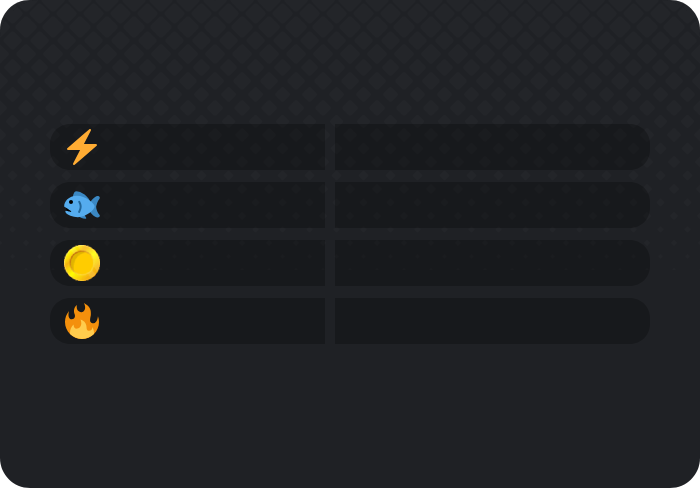
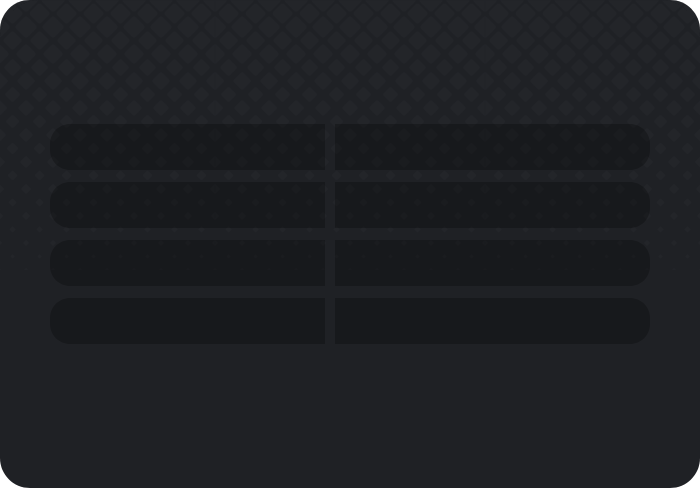
Fishery currencies completed

diff --git a/src/main/java/modules/graphics/FisheryGraphics.java b/src/main/java/modules/graphics/FisheryGraphics.java
@@ -4,9 +4,11 @@ import commands.Category;
 import core.AttributedStringGenerator;
 import core.LocalFile;
 import core.TextManager;
+import core.utils.EmojiUtil;
 import core.utils.StringUtil;
 import modules.fishery.FisheryPowerUp;
 import mysql.hibernate.entity.guild.GuildEntity;
+import net.dv8tion.jda.api.entities.emoji.Emoji;
 
 import javax.imageio.ImageIO;
 import java.awt.*;
@@ -26,8 +28,8 @@ public class FisheryGraphics {
     private static final int TEXT_FONT_SMALL = 25;
     private static final int TEXT_FONT_EXTRA_SMALL = 20;
 
-    public static InputStream createAccountCard(GuildEntity guildEntity, long[] values, long[] valueChanges,
-                                                long rank, long totalRank, long rankChange,
+    public static InputStream createAccountCard(GuildEntity guildEntity, Emoji[] emojis, long[] values,
+                                                long[] valueChanges, long rank, long totalRank, long rankChange,
                                                 List<FisheryPowerUp> activePowerUps, String subtext
     ) throws IOException {
         BufferedImage backgroundImage = ImageIO.read(new LocalFile(LocalFile.Directory.RESOURCES, subtext != null ? "fishery_account_large.png" : "fishery_account.png"));
@@ -35,7 +37,7 @@ public class FisheryGraphics {
         Graphics2D g2d = GraphicsUtil.createGraphics(drawImage);
 
         g2d.drawImage(backgroundImage, 0, 0, backgroundImage.getWidth(), backgroundImage.getHeight(), null);
-        drawAccountTexts(g2d, guildEntity, values, valueChanges, rank, totalRank, rankChange, subtext);
+        drawAccountTexts(g2d, guildEntity, emojis, values, valueChanges, rank, totalRank, rankChange, subtext);
 
         for (int i = 0; i < activePowerUps.size(); i++) {
             drawPowerUp(g2d, activePowerUps.get(i), i);
@@ -48,7 +50,7 @@ public class FisheryGraphics {
         }
     }
 
-    private static void drawAccountTexts(Graphics2D g2d, GuildEntity guildEntity, long[] values, long[] valueChanges,
+    private static void drawAccountTexts(Graphics2D g2d, GuildEntity guildEntity, Emoji[] emojis, long[] values, long[] valueChanges,
                                          long rank, long totalRank, long rankChange, String subtext
     ) {
         FontRenderContext frc = new FontRenderContext(null, true, true);
@@ -63,7 +65,7 @@ public class FisheryGraphics {
         String[] labels = TextManager.getString(guildEntity, guildEntity.getLocale(), Category.FISHERY.getId(), "fisherycat_valuelabels", -1).split("\n");
         for (int i = 0; i < labels.length; i++) {
             String label = labels[i];
-            drawAccountSlot(g2d, frc, fontSmall, label, values[i], valueChanges[i], i, valueChanges[i] >= 0 ? Color.GREEN : Color.RED);
+            drawAccountSlot(g2d, frc, fontSmall, label, emojis[i], values[i], valueChanges[i], i, valueChanges[i] >= 0 ? Color.GREEN : Color.RED);
         }
 
         String rankChangeString = rankChange != 0 ? (" (" + (rankChange >= 0 ? "+" : "") + StringUtil.numToString(rankChange) + ")") : null;
@@ -77,9 +79,11 @@ public class FisheryGraphics {
         }
     }
 
-    private static void drawAccountSlot(Graphics2D g2d, FontRenderContext frc, AttributedStringGenerator fontSmall, String label,
-                                        long value, long valueChange, int i, Color valueChangeColor
+    private static void drawAccountSlot(Graphics2D g2d, FontRenderContext frc, AttributedStringGenerator fontSmall,
+                                        String label, Emoji emoji, long value, long valueChange, int i,
+                                        Color valueChangeColor
     ) {
+        drawEmoji(g2d, emoji, 66, 131 + 58 * i, 32, 32);
         drawStringScaledToBounds(g2d, frc, fontSmall, label, 110, 147 + 58 * i + getTextHeight(frc, fontSmall) / 2, 200, false);
 
         String valueString = StringUtil.numToString(value);
@@ -127,17 +131,17 @@ public class FisheryGraphics {
     }
 
     private static void drawPowerUp(Graphics2D g2d, FisheryPowerUp powerUp, int i) throws IOException {
-        BufferedImage image = ImageIO.read(new LocalFile(LocalFile.Directory.RESOURCES, String.format("powerup/%s.png", powerUp.name().toLowerCase())));
-        g2d.drawImage(image, 650 - 64 - (64 + 8) * i, 374,null);
+        BufferedImage image = ImageIO.read(new LocalFile(LocalFile.Directory.RESOURCES, java.lang.String.format("powerup/%s.png", powerUp.name().toLowerCase())));
+        g2d.drawImage(image, 650 - 64 - (64 + 8) * i, 374, null);
     }
 
-    public static InputStream createGearCard(Locale locale, long[] levels, long[] values, String roleName, long coinGiftLimit, boolean powerUpBonus) throws IOException {
+    public static InputStream createGearCard(Locale locale, long[] levels, long[] values, String roleName, long coinGiftLimit, boolean powerUpBonus, Emoji fishEmoji, Emoji coinsEmoji) throws IOException {
         BufferedImage backgroundImage = ImageIO.read(new LocalFile(LocalFile.Directory.RESOURCES, levels[7] > 0 ? "fishery_gear_card_prestige.png" : "fishery_gear_card.png"));
         BufferedImage drawImage = new BufferedImage(backgroundImage.getWidth(), backgroundImage.getHeight(), BufferedImage.TYPE_INT_ARGB);
         Graphics2D g2d = GraphicsUtil.createGraphics(drawImage);
 
         g2d.drawImage(backgroundImage, 0, 0, backgroundImage.getWidth(), backgroundImage.getHeight(), null);
-        drawGearTexts(g2d, locale, levels, values, roleName, coinGiftLimit, powerUpBonus);
+        drawGearTexts(g2d, locale, levels, values, roleName, coinGiftLimit, powerUpBonus, fishEmoji, coinsEmoji);
 
         try (ByteArrayOutputStream os = new ByteArrayOutputStream()) {
             ImageIO.write(drawImage, "png", os);
@@ -146,7 +150,7 @@ public class FisheryGraphics {
         }
     }
 
-    private static void drawGearTexts(Graphics2D g2d, Locale locale, long[] levels, long[] values, String roleName, long coinGiftLimit, boolean powerUpBonus) throws IOException {
+    private static void drawGearTexts(Graphics2D g2d, Locale locale, long[] levels, long[] values, String roleName, long coinGiftLimit, boolean powerUpBonus, Emoji fishEmoji, Emoji coinsEmoji) {
         FontRenderContext frc = new FontRenderContext(null, true, true);
         g2d.setColor(Color.WHITE);
 
@@ -156,6 +160,7 @@ public class FisheryGraphics {
 
         g2d.drawString(fontLarge.getIterator(TextManager.getString(locale, Category.FISHERY, "fisherycat_fisherygear")), 50, 50 + getTextHeight(frc, fontLarge));
 
+        Emoji[] emojis = new Emoji[] {fishEmoji, fishEmoji, fishEmoji, coinsEmoji, null, coinsEmoji, coinsEmoji, null};
         String[] labels = TextManager.getString(locale, Category.FISHERY, "fisherycat_gearvaluelabels").split("\n");
         for (int i = 0; i < labels.length; i++) {
             if (i == 7 && levels[7] == 0) {
@@ -171,7 +176,7 @@ public class FisheryGraphics {
                 valueString = " ";
             }
 
-            drawGearSlot(g2d, locale, frc, fontSmall, fontExtraSmall, label, i, StringUtil.numToString(levels[i]), valueString);
+            drawGearSlot(g2d, locale, frc, fontSmall, fontExtraSmall, emojis[i], label, i, StringUtil.numToString(levels[i]), valueString);
         }
 
         String coinGiftLabel = TextManager.getString(locale, Category.FISHERY, "fisherycat_gear_giftlimit");
@@ -180,13 +185,12 @@ public class FisheryGraphics {
         g2d.setColor(Color.WHITE);
         int labelWidth = (int) fontExtraSmall.getStringBounds(coinGiftLabel, frc).getWidth();
 
-        BufferedImage coinImage = ImageIO.read(new LocalFile(LocalFile.Directory.RESOURCES,"coin.png"));
-        g2d.drawImage(coinImage, 65 + labelWidth, 521, null);
+        drawEmoji(g2d, coinsEmoji, 65 + labelWidth, 521, 28, 28);
         drawStringScaledToBounds(g2d, frc, fontExtraSmall, coinGiftLimit != 0 ? StringUtil.numToString(coinGiftLimit) : "∞", 98 + labelWidth, 526 + getTextHeight(frc, fontExtraSmall), 716 - (98 + labelWidth), false);
     }
 
     private static void drawGearSlot(Graphics2D g2d, Locale locale, FontRenderContext frc, AttributedStringGenerator fontSmall,
-                                     AttributedStringGenerator fontExtraSmall, String label, int i,
+                                     AttributedStringGenerator fontExtraSmall, Emoji emoji, String label, int i,
                                      String level, String value) {
         int xAdd = (i / 4) * 338;
         int yAdd = (i % 4) * 98;
@@ -206,6 +210,8 @@ public class FisheryGraphics {
             valueWidth += 10 + fontExtraSmall.getStringBounds(TextManager.getString(locale, Category.FISHERY, "fisherycat_gearsubtitle_" + i), frc).getWidth();
         }
         double valueScaleX = Math.min(1.0, (249.0 + (i == 4 ? 33.0 : 0.0)) / valueWidth);
+
+        drawEmoji(g2d, emoji, 96 + xAdd, 175 + yAdd, 28, 28);
 
         double valueNumberWidth = drawStringScaled(g2d, frc, fontExtraSmall, value, 129 + xAdd - (i == 4 ? 33 : 0), 181 + yAdd + getTextHeight(frc, fontExtraSmall), valueScaleX, false);
         if (i != 4 && i != 7) {
@@ -241,6 +247,17 @@ public class FisheryGraphics {
         transform.scale(1.0, 1.0);
         g2d.setTransform(transform);
         return width;
+    }
+
+    private static void drawEmoji(Graphics2D g2d, Emoji emoji, int x, int y, int width, int height) {
+        if (emoji == null) {
+            return;
+        }
+
+        BufferedImage emojiImage = EmojiUtil.toImage(emoji);
+        if (emojiImage != null) {
+            g2d.drawImage(emojiImage, x, y, width, height, null);
+        }
     }
 
 }

diff --git a/src/main/java/core/utils/EmojiUtil.java b/src/main/java/core/utils/EmojiUtil.java
@@ -1,6 +1,8 @@
 package core.utils;
 
 import constants.Emojis;
+import core.LocalFile;
+import core.MainLogger;
 import net.dv8tion.jda.api.Permission;
 import net.dv8tion.jda.api.entities.Message;
 import net.dv8tion.jda.api.entities.MessageReaction;
@@ -9,10 +11,16 @@ import net.dv8tion.jda.api.entities.emoji.CustomEmoji;
 import net.dv8tion.jda.api.entities.emoji.Emoji;
 import net.dv8tion.jda.api.entities.emoji.UnicodeEmoji;
 
+import javax.imageio.ImageIO;
+import java.awt.image.BufferedImage;
+import java.io.IOException;
+import java.net.URL;
 import java.util.Arrays;
 import java.util.Base64;
 import java.util.Objects;
 import java.util.Optional;
+import java.util.concurrent.ExecutionException;
+import java.util.stream.Collectors;
 
 public class EmojiUtil {
 
@@ -57,6 +65,42 @@ public class EmojiUtil {
 
     public static String getEmojiFromOverride(String def, String id) {
         return Objects.requireNonNullElse(getEmojiFromOverrideOrNull(id), def);
+    }
+
+    public static BufferedImage toImage(Emoji emoji) {
+        try {
+            if (emoji instanceof UnicodeEmoji) {
+                String assetId = toTwemojiAssetId(emoji.getFormatted());
+                LocalFile localFile = new LocalFile(LocalFile.Directory.EMOJI_CACHE, assetId + ".png");
+                if (!localFile.exists()) {
+                    BufferedImage bufferedImage = ImageIO.read(new URL("https://twemoji.maxcdn.com/v/latest/72x72/" + assetId + ".png"));
+                    if (bufferedImage != null) {
+                        ImageIO.write(bufferedImage, "png", localFile);
+                    } else {
+                        BufferedImage img = new BufferedImage(32, 32, BufferedImage.TYPE_INT_ARGB);
+                        ImageIO.write(img, "png", localFile);
+                    }
+                }
+                return ImageIO.read(localFile);
+            } else if (emoji instanceof CustomEmoji) {
+                LocalFile localFile = new LocalFile(LocalFile.Directory.EMOJI_CACHE, ((CustomEmoji) emoji).getId() + ".png");
+                if (!localFile.exists()) {
+                    ((CustomEmoji) emoji).getImage().downloadToFile(localFile, 32).get();
+                }
+                return ImageIO.read(localFile);
+            }
+        } catch (IOException | ExecutionException | InterruptedException e) {
+            MainLogger.get().error("Emoji cache error", e);
+            return null;
+        }
+        return null;
+    }
+
+    private static String toTwemojiAssetId(String emoji) {
+        return emoji.codePoints()
+                .mapToObj(Integer::toHexString)
+                .collect(Collectors.joining("-"))
+                .toLowerCase();
     }
 
     private static String getEmojiFromOverrideOrNull(String id) {

diff --git a/src/main/java/modules/fishery/Fishery.java b/src/main/java/modules/fishery/Fishery.java
@@ -181,10 +181,10 @@ public class Fishery {
         }
     }
 
-    public static String generateGearCardUrl(Locale locale, FisheryMemberData fisheryMemberData, boolean powerUpBonus, List<Role> roles, int roleLvl, FisheryEntity fishery) throws IOException {
+    public static String generateGearCardUrl(GuildEntity guildEntity, FisheryMemberData fisheryMemberData, boolean powerUpBonus, List<Role> roles, int roleLvl, FisheryEntity fishery) throws IOException {
         String roleName = !roles.isEmpty() && roleLvl > 0 && roleLvl <= roles.size()
                 ? "@" + roles.get(roleLvl - 1).getName()
-                : TextManager.getString(locale, Category.FISHERY, "fisherycat_gear_norole");
+                : TextManager.getString(guildEntity.getLocale(), Category.FISHERY, "fisherycat_gear_norole");
         long coinGiftLimit = fishery.getCoinGiftLimit() ? fisheryMemberData.getCoinsGiveReceivedMax() : 0;
 
         ArrayList<FisheryMemberGearData> gearList = new ArrayList<>(fisheryMemberData.getGearMap().values());
@@ -197,7 +197,11 @@ public class Fishery {
         }
 
         FeatureLogger.inc(PremiumFeature.FISHERY_ACCOUNT_CARDS, fishery.getGuildId());
-        InputStream inputStream = FisheryGraphics.createGearCard(locale, levels, values, roleName, coinGiftLimit, powerUpBonus);
+
+        FisheryEntity fisheryEntity = guildEntity.getFishery();
+        Emoji fishEmoji = fisheryEntity.getCurrencyEffectivelyReadOnly(FisheryCurrency.FISH).getEmoji();
+        Emoji coinsEmoji = fisheryEntity.getCurrencyEffectivelyReadOnly(FisheryCurrency.COINS).getEmoji();
+        InputStream inputStream = FisheryGraphics.createGearCard(guildEntity.getLocale(), levels, values, roleName, coinGiftLimit, powerUpBonus, fishEmoji, coinsEmoji);
         return InternetUtil.getUrlFromInputStream(inputStream, "png");
     }
 

diff --git a/src/main/java/mysql/redis/fisheryusers/FisheryMemberData.java b/src/main/java/mysql/redis/fisheryusers/FisheryMemberData.java
@@ -23,6 +23,7 @@ import net.dv8tion.jda.api.entities.Member;
 import net.dv8tion.jda.api.entities.Message;
 import net.dv8tion.jda.api.entities.Role;
 import net.dv8tion.jda.api.entities.channel.concrete.VoiceChannel;
+import net.dv8tion.jda.api.entities.emoji.Emoji;
 import org.apache.commons.lang3.StringUtils;
 import redis.clients.jedis.Pipeline;
 import redis.clients.jedis.Response;
@@ -851,8 +852,16 @@ public class FisheryMemberData implements MemberAsset {
                 }
             }
 
+            FisheryEntity fisheryEntity = guildEntity.getFishery();
+            Emoji[] emojis = new Emoji[] {
+                    fisheryEntity.getCurrencyEffectivelyReadOnly(FisheryCurrency.RECENT_EFFICIENCY).getEmoji(),
+                    fisheryEntity.getCurrencyEffectivelyReadOnly(FisheryCurrency.FISH).getEmoji(),
+                    fisheryEntity.getCurrencyEffectivelyReadOnly(FisheryCurrency.COINS).getEmoji(),
+                    Emojis.DAILY_STREAK
+            };
+
             FeatureLogger.inc(PremiumFeature.FISHERY_ACCOUNT_CARDS, getGuildId());
-            InputStream inputStream = FisheryGraphics.createAccountCard(guildEntity, values, valueChanges,
+            InputStream inputStream = FisheryGraphics.createAccountCard(guildEntity, emojis, values, valueChanges,
                     rank, member.getGuild().getMemberCount(), rank - rankPrevious, getActivePowerUps(), subtext);
             eb.setImage(InternetUtil.getUrlFromInputStream(inputStream, "png"));
         } catch (IOException e) {

diff --git a/src/main/java/commands/runnables/fisherycategory/BuyCommand.java b/src/main/java/commands/runnables/fisherycategory/BuyCommand.java
@@ -254,7 +254,7 @@ public class BuyCommand extends NavigationAbstract implements FisheryInterface {
     private EmbedBuilder getGearEmbedCard(FisheryMemberData fisheryMemberData, boolean powerUpBonus, List<Role> roles, int roleLvl, FisheryEntity fishery, String statusCurrencies) throws IOException {
         return EmbedFactory.getEmbedDefault(this, statusCurrencies)
                 .setTitle(getString("status_title"))
-                .setImage(Fishery.generateGearCardUrl(getLocale(), fisheryMemberData, powerUpBonus, roles, roleLvl, fishery));
+                .setImage(Fishery.generateGearCardUrl(getGuildEntity(), fisheryMemberData, powerUpBonus, roles, roleLvl, fishery));
     }
 
     private List<FisheryMemberGearData> getUpgradableGears() {

diff --git a/src/main/java/commands/runnables/fisherycategory/GearCommand.java b/src/main/java/commands/runnables/fisherycategory/GearCommand.java
@@ -121,7 +121,7 @@ public class GearCommand extends FisheryMemberAccountInterface {
         int roleLvl = fisheryMemberData.getMemberGear(FisheryGear.ROLE).getLevel();
         boolean powerUpBonus = fisheryMemberData.getActivePowerUps().contains(FisheryPowerUp.LOUPE);
 
-        eb.setImage(Fishery.generateGearCardUrl(getLocale(), fisheryMemberData, powerUpBonus, roles, roleLvl, getGuildEntity().getFishery()));
+        eb.setImage(Fishery.generateGearCardUrl(getGuildEntity(), fisheryMemberData, powerUpBonus, roles, roleLvl, getGuildEntity().getFishery()));
         return eb;
     }
 

diff --git a/src/main/java/core/LocalFile.java b/src/main/java/core/LocalFile.java
@@ -40,7 +40,8 @@ public class LocalFile extends File {
         EMOJIS("/data/emojis"),
         RESOURCES("/data/resources"),
         TEMP("temp"),
-        DISCORD_BACKUP("/data/discord_backup");
+        DISCORD_BACKUP("/data/discord_backup"),
+        EMOJI_CACHE("/data/emoji_cache");
 
         private final String path;
 
